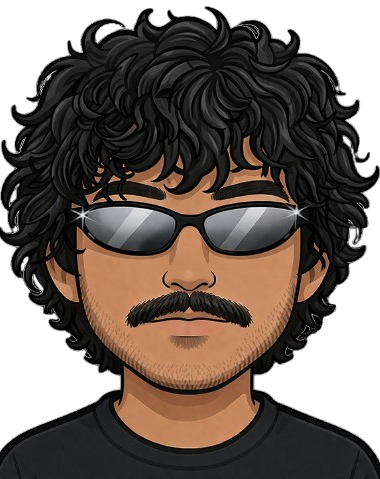
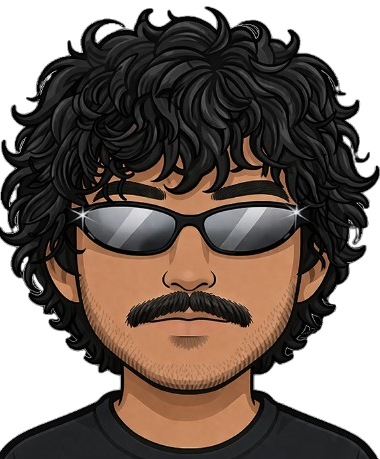
cat and mascots

diff --git a/public/index.html b/public/index.html
@@ -260,6 +260,7 @@
       bottom: 0;
       display: flex;
       align-items: flex-end;
+      gap: 5mm;
     }
 
     .theme-btn {
@@ -878,23 +879,29 @@
     }
 
     .glam-circle-btn {
-      width: 42px;
-      height: 42px;
-      border-radius: 50%;
-      border: 3px solid rgba(255,255,255,0.6);
-      background: linear-gradient(135deg, #DE5C8F, #7C4EBB);
-      color: #fff;
-      font-size: 1.1rem;
+      background: transparent;
+      border: none;
+      padding: 0;
       cursor: pointer;
-      display: flex;
-      align-items: center;
-      justify-content: center;
-      transition: transform 0.15s, box-shadow 0.15s;
+      display: block;
+      line-height: 0;
+      transition: filter 0.2s;
       flex-shrink: 0;
     }
-    .glam-circle-btn:hover { transform: scale(1.1); }
+    .glam-circle-btn img {
+      height: 92px;
+      width: auto;
+      display: block;
+    }
+    .glam-circle-btn:hover { opacity: 0.85; }
     .glam-circle-btn.active {
-      box-shadow: 0 0 0 3px white, 0 0 10px rgba(255,255,255,0.5);
+      filter:
+        drop-shadow(1px 0 0 white)
+        drop-shadow(-1px 0 0 white)
+        drop-shadow(0 -1px 0 white)
+        drop-shadow(-1px -1px 0 white)
+        drop-shadow(1px -1px 0 white)
+        drop-shadow(0 -2px 5px rgba(255,255,255,0.85));
     }
 
     .header-btns {
@@ -1201,7 +1208,7 @@
 
 <header>
   <div class="header-right-group">
-    <button class="glam-circle-btn" id="glamBtn" title="Glam">✨</button>
+    <button class="glam-circle-btn" id="glamBtn" title="Glam"><img src="cat.png" alt="Glam" /></button>
     <div class="header-btns">
       <button class="header-action-btn" id="wallBtn">✏ The Wall</button>
       <button class="header-action-btn info-btn" id="infoBtn">DA FAQ?</button>
